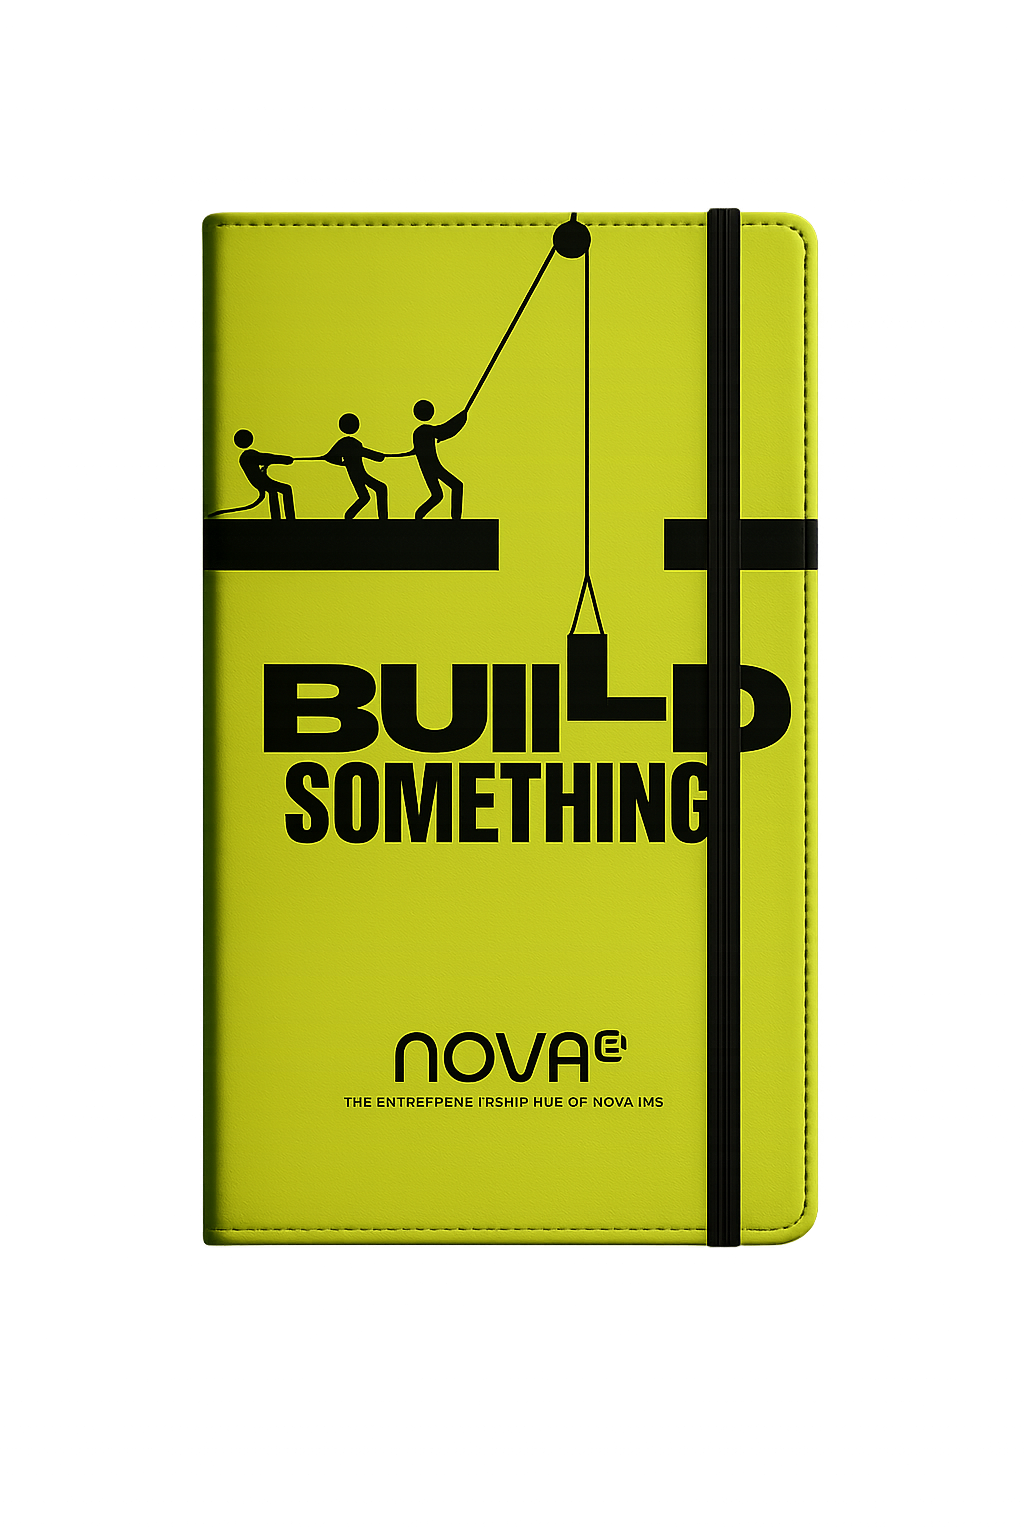
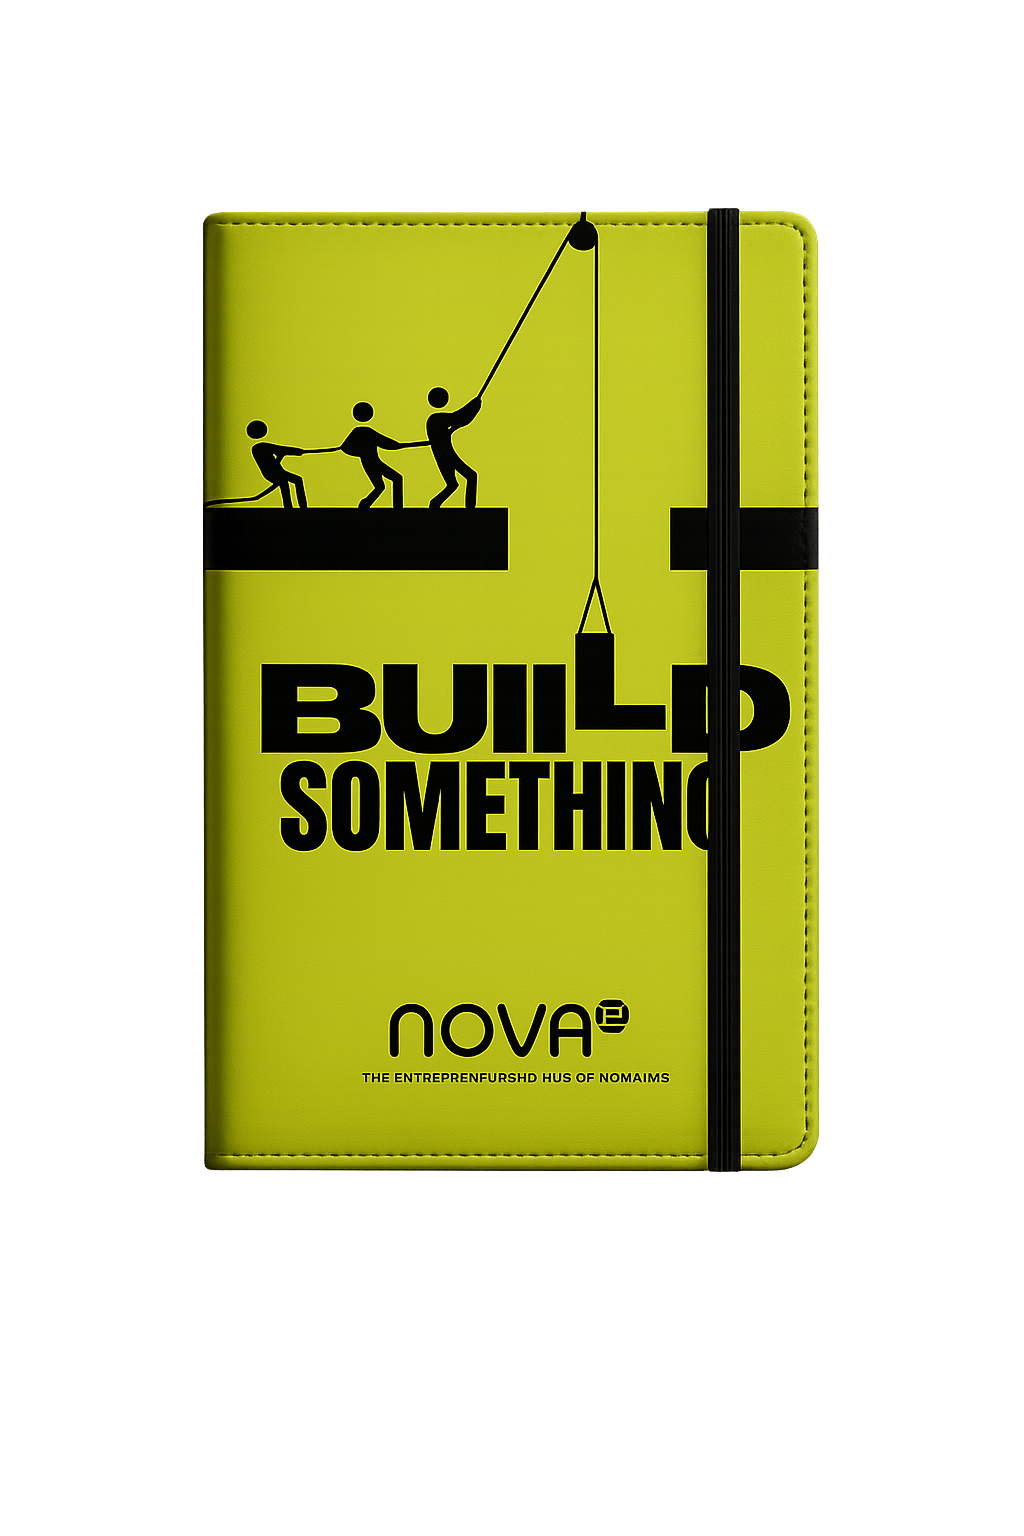
Refactor code structure for improved readability and maintainability

diff --git a/src/App.tsx b/src/App.tsx
@@ -59,11 +59,11 @@ const CARDS_CONFIG = [
   {
     id: "c6",
     label: "Knowledge Base",
-    image: "images/folder2.png",
-    position: { bottom: "-22%", right: "-4%" },
+    image: "images/folder3.png",
+    position: { bottom: "-18%", right: "-3%" },
     rotation: 20,
     link: "#knowledge-base",
-    size: { w: 370, h: 370 },
+    size: { w: 300, h: 300 },
     zIndex: 2,
     labelPosition: "bottom",
     labelOffset: 200,
@@ -71,11 +71,11 @@ const CARDS_CONFIG = [
   {
     id: "c4",
     label: "Projects",
-    image: "images/notebook3.png",
-    position: { bottom: "-16%", right: "17%" },
-    rotation: -8,
+    image: "images/notebook5.png",
+    position: { bottom: "-16%", right: "15%" },
+    rotation: -7,
     link: "#projects",
-    size: { w: 280, h: 360 },
+    size: { w: 300, h: 380 },
     zIndex: 2,
     labelOffset: 30,
     labelPosition: "top",
@@ -83,7 +83,7 @@ const CARDS_CONFIG = [
   {
     id: "c7",
     label: "Current Project",
-    image: "images/note2.png",
+    image: "images/note3.png",
     position: { bottom: "43%", right: "21%" },
     rotation: 10,
     link: "#current-project",
@@ -563,7 +563,7 @@ export default function App() {
   const [stage, setStage] = useState<"entry" | "loading" | "ready">("entry");
 
   const handleEnter = () => {
-    const audio = new Audio("images/audio4.mp3");
+    const audio = new Audio("");
     audio.volume = 1.0;
     audio.play().catch(() => {});
     setStage("loading");